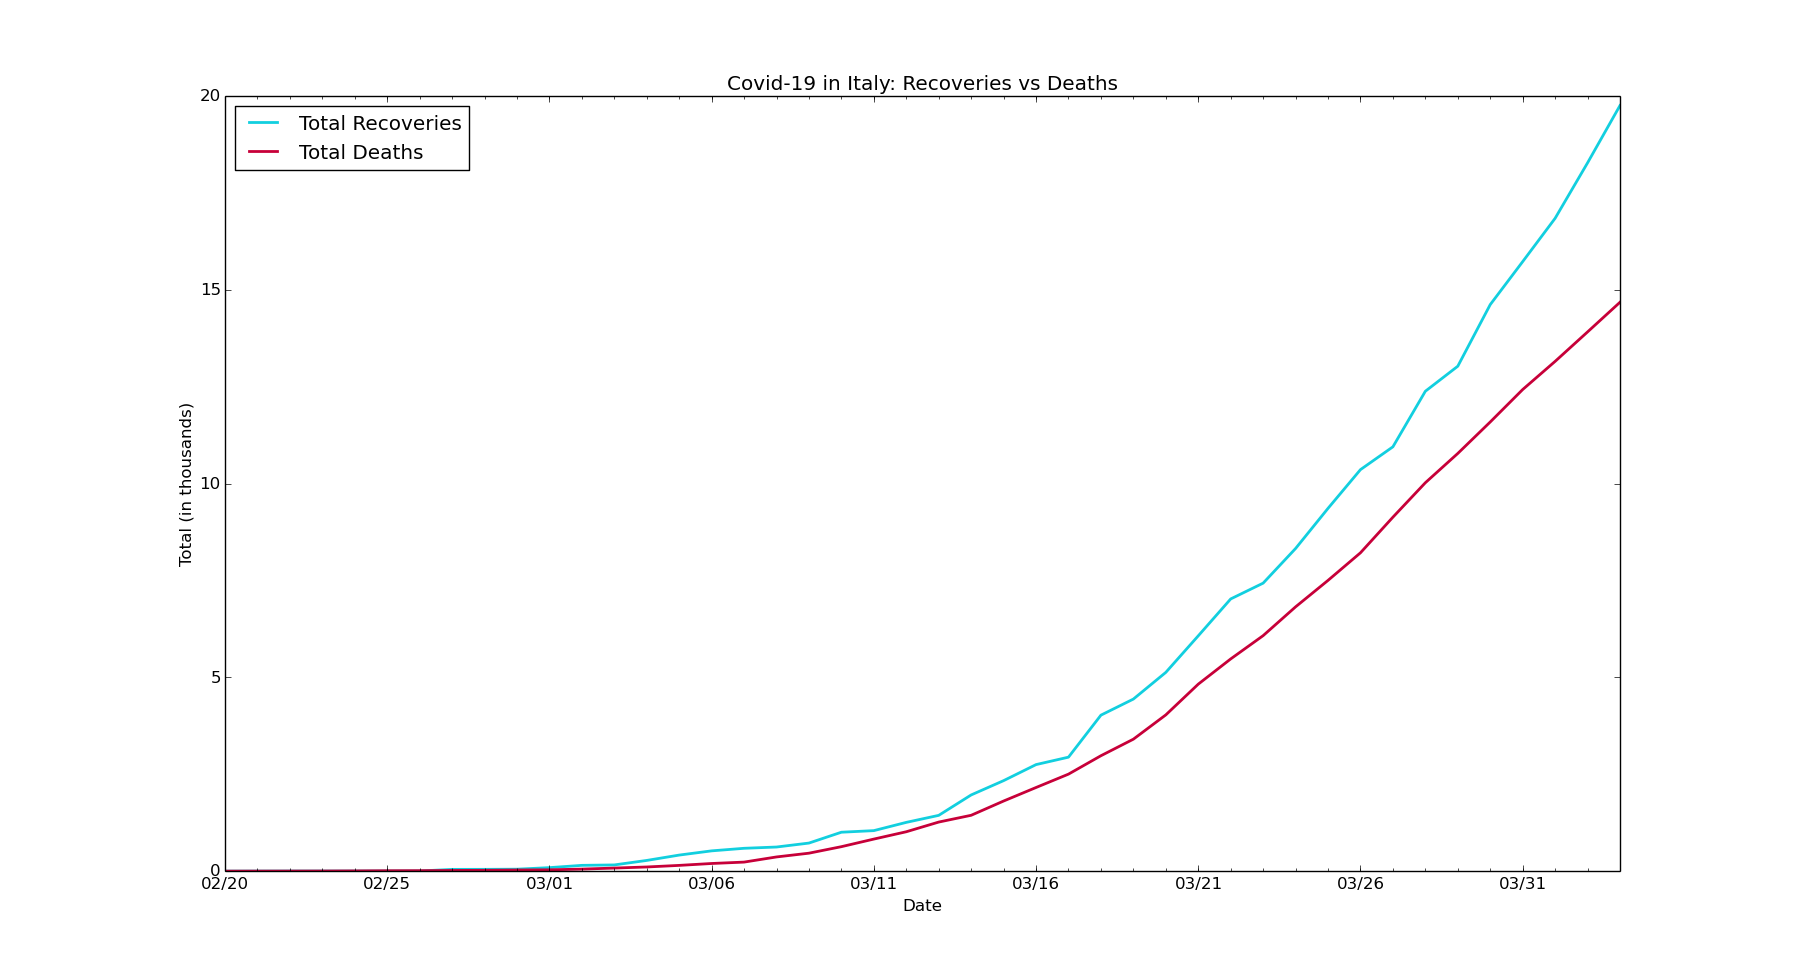
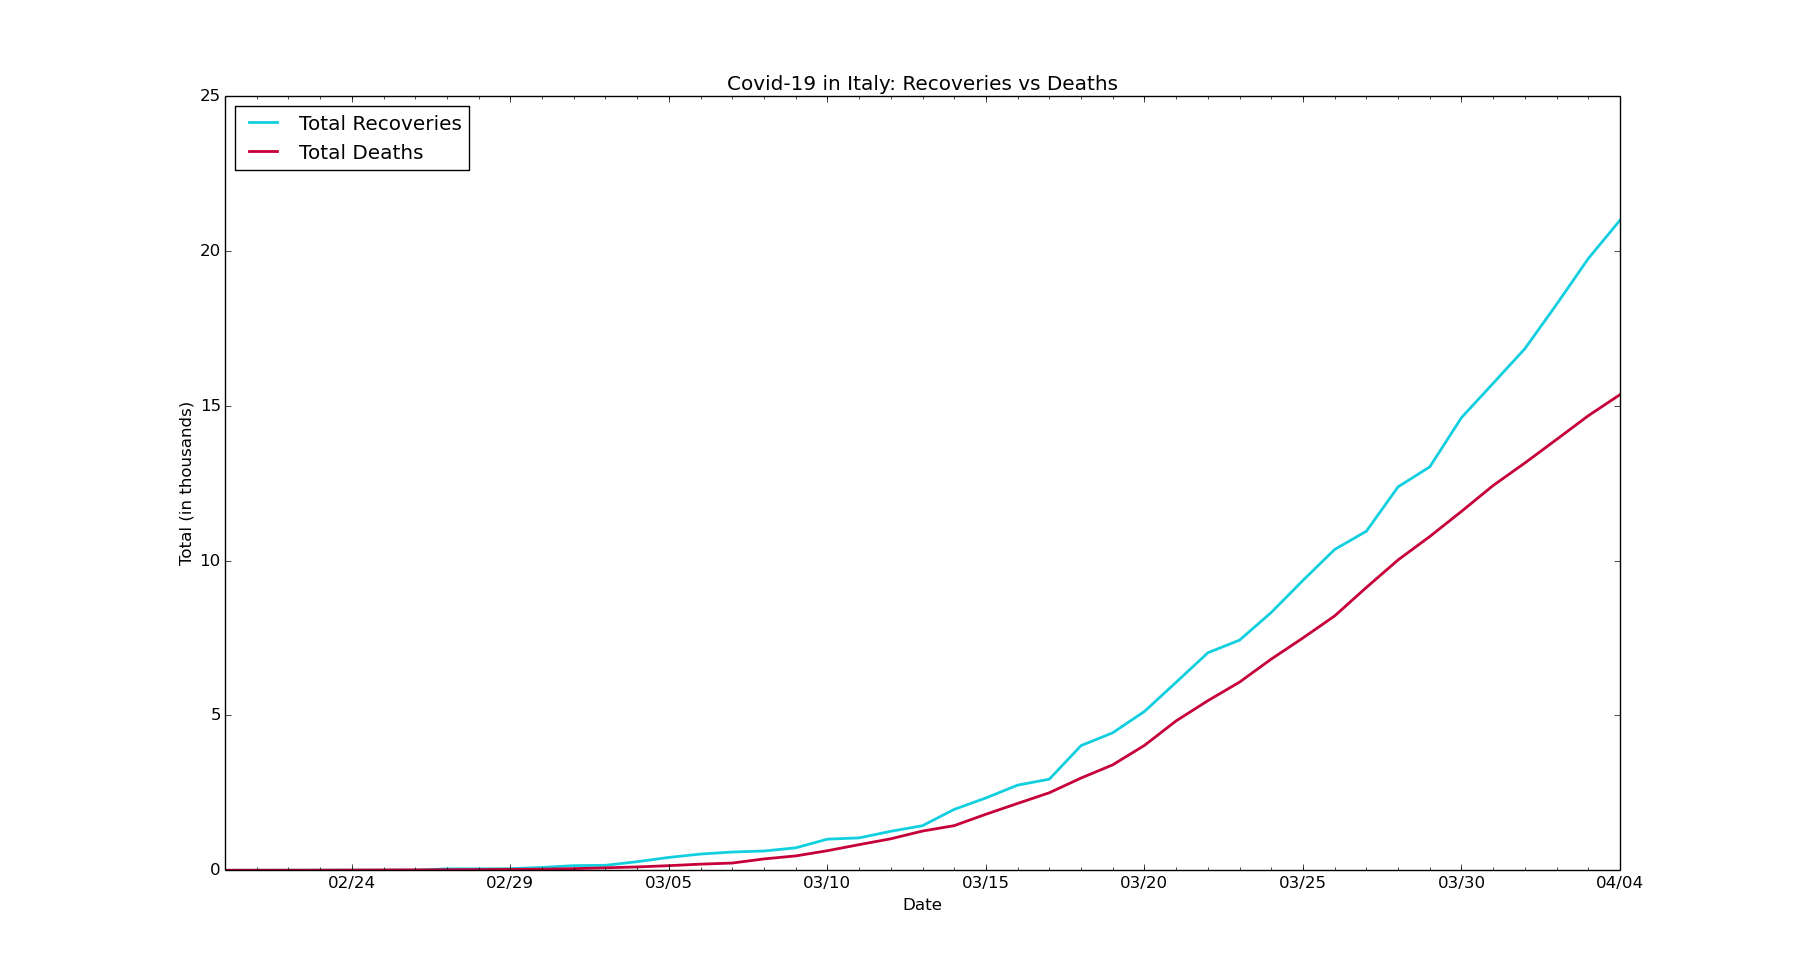
chore: Update data for Italy

diff --git a/italy/it-nc.py b/italy/it-nc.py
@@ -6,7 +6,7 @@ import matplotlib.dates as mdates
 import matplotlib.ticker as ticker
 from matplotlib.dates import MO, TU, WE, TH, FR, SA, SU
 
-dates = ['1/31/2020', '2/1/2020', '2/2/2020', '2/3/2020', '2/4/2020', '2/5/2020', '2/6/2020', '2/7/2020', '2/8/2020', '2/9/2020', '2/10/2020', '2/11/2020', '2/12/2020', '2/13/2020', '2/14/2020', '2/15/2020', '2/16/2020', '2/17/2020', '2/18/2020', '2/19/2020', '2/20/2020', '2/21/2020', '2/22/2020', '2/23/2020', '2/24/2020', '2/25/2020', '2/26/2020', '2/27/2020', '2/28/2020', '2/29/2020', '3/1/2020', '3/2/2020', '3/3/2020', '3/4/2020', '3/5/2020', '3/6/2020', '3/7/2020', '3/8/2020', '3/9/2020', '3/10/2020', '3/11/2020', '3/12/2020', '3/13/2020', '3/14/2020', '3/15/2020', '3/16/2020', '3/17/2020', '3/18/2020', '3/19/2020', '3/20/2020', '3/21/2020', '3/22/2020', '3/23/2020', '3/24/2020', '3/25/2020', '3/26/2020', '3/27/2020', '3/28/2020', '3/29/2020', '3/30/2020', '3/31/2020', '4/1/2020', '4/2/2020', '4/3/2020']
+dates = ['1/31/2020', '2/1/2020', '2/2/2020', '2/3/2020', '2/4/2020', '2/5/2020', '2/6/2020', '2/7/2020', '2/8/2020', '2/9/2020', '2/10/2020', '2/11/2020', '2/12/2020', '2/13/2020', '2/14/2020', '2/15/2020', '2/16/2020', '2/17/2020', '2/18/2020', '2/19/2020', '2/20/2020', '2/21/2020', '2/22/2020', '2/23/2020', '2/24/2020', '2/25/2020', '2/26/2020', '2/27/2020', '2/28/2020', '2/29/2020', '3/1/2020', '3/2/2020', '3/3/2020', '3/4/2020', '3/5/2020', '3/6/2020', '3/7/2020', '3/8/2020', '3/9/2020', '3/10/2020', '3/11/2020', '3/12/2020', '3/13/2020', '3/14/2020', '3/15/2020', '3/16/2020', '3/17/2020', '3/18/2020', '3/19/2020', '3/20/2020', '3/21/2020', '3/22/2020', '3/23/2020', '3/24/2020', '3/25/2020', '3/26/2020', '3/27/2020', '3/28/2020', '3/29/2020', '3/30/2020', '3/31/2020', '4/1/2020', '4/2/2020', '4/3/2020', '4/4/2020']
 
 # format dates
 x_values = [dt.datetime.strptime(d, "%m/%d/%Y").date() for d in dates]
@@ -31,7 +31,7 @@ plt.axvline(dt.datetime(2020, 3, 21), color='#0b28f7', linewidth=2, label='nones
 ax.get_yaxis().set_major_formatter(ticker.FuncFormatter(lambda x, pos: format(int(x/1000), ',')))
 
 # new cases by day
-new_cases = [2, 0, 0, 0, 0, 0, 1, 0, 0, 0, 0, 0, 0, 0, 0, 0, 0, 0, 0, 0, 0, 17, 58, 78, 72, 94, 147, 185, 234, 239, 573, 335, 466, 587, 769, 778, 1247, 1492, 1797, 977, 2313, 2651, 2547, 3497, 3590, 3233, 3526, 4207, 5322, 5986, 6557, 5560, 4789, 5249, 5210, 6203, 5909, 5974, 5217, 4050, 4053, 4782, 4668, 4585]
+new_cases = [2, 0, 0, 0, 0, 0, 1, 0, 0, 0, 0, 0, 0, 0, 0, 0, 0, 0, 0, 0, 0, 17, 58, 78, 72, 94, 147, 185, 234, 239, 573, 335, 466, 587, 769, 778, 1247, 1492, 1797, 977, 2313, 2651, 2547, 3497, 3590, 3233, 3526, 4207, 5322, 5986, 6557, 5560, 4789, 5249, 5210, 6203, 5909, 5974, 5217, 4050, 4053, 4782, 4668, 4585, 4805]
 
 # text labels
 plt.title('Covid-19 in Italy: New Confirmed Diagnoses')

diff --git a/italy/it-rvd.py b/italy/it-rvd.py
@@ -6,7 +6,7 @@ import matplotlib.dates as mdates
 import matplotlib.ticker as ticker
 from matplotlib.dates import MO, TU, WE, TH, FR, SA, SU
 
-dates = ['2/20/2020', '2/21/2020', '2/22/2020', '2/23/2020', '2/24/2020', '2/25/2020', '2/26/2020', '2/27/2020', '2/28/2020', '2/29/2020', '3/1/2020', '3/2/2020', '3/3/2020', '3/4/2020', '3/5/2020', '3/6/2020', '3/7/2020', '3/8/2020', '3/9/2020', '3/10/2020', '3/11/2020', '3/12/2020', '3/13/2020', '3/14/2020', '3/15/2020', '3/16/2020', '3/17/2020', '3/18/2020', '3/19/2020', '3/20/2020', '3/21/2020', '3/22/2020', '3/23/2020', '3/24/2020', '3/25/2020', '3/26/2020', '3/27/2020', '3/28/2020', '3/29/2020', '3/30/2020', '3/31/2020', '4/1/2020', '4/2/2020', '4/3/2020']
+dates = ['2/20/2020', '2/21/2020', '2/22/2020', '2/23/2020', '2/24/2020', '2/25/2020', '2/26/2020', '2/27/2020', '2/28/2020', '2/29/2020', '3/1/2020', '3/2/2020', '3/3/2020', '3/4/2020', '3/5/2020', '3/6/2020', '3/7/2020', '3/8/2020', '3/9/2020', '3/10/2020', '3/11/2020', '3/12/2020', '3/13/2020', '3/14/2020', '3/15/2020', '3/16/2020', '3/17/2020', '3/18/2020', '3/19/2020', '3/20/2020', '3/21/2020', '3/22/2020', '3/23/2020', '3/24/2020', '3/25/2020', '3/26/2020', '3/27/2020', '3/28/2020', '3/29/2020', '3/30/2020', '3/31/2020', '4/1/2020', '4/2/2020', '4/3/2020', '4/4/2020']
 
 # format dates
 x_values = [datetime.datetime.strptime(d, "%m/%d/%Y").date() for d in dates]
@@ -24,10 +24,10 @@ ax.xaxis.set_minor_locator(mdates.WeekdayLocator(byweekday=(MO, TU, WE, TH, FR, 
 ax.get_yaxis().set_major_formatter(ticker.FuncFormatter(lambda x, pos: format(int(x/1000), ',')))
 
 # total recoveries
-recoveries = [0, 1, 2, 2, 2, 3, 3, 45, 46, 50, 90, 149, 160, 276, 414, 523, 589, 622, 724, 1004, 1045, 1258, 1439, 1966, 2335, 2749, 2941, 4025, 4440, 5129, 6072, 7024, 7432, 8326, 9362, 10361, 10950, 12384, 13030, 14620, 15729, 16847, 18278, 19758]
+recoveries = [0, 1, 2, 2, 2, 3, 3, 45, 46, 50, 90, 149, 160, 276, 414, 523, 589, 622, 724, 1004, 1045, 1258, 1439, 1966, 2335, 2749, 2941, 4025, 4440, 5129, 6072, 7024, 7432, 8326, 9362, 10361, 10950, 12384, 13030, 14620, 15729, 16847, 18278, 19758, 20996]
 
 # total deaths
-deaths = [0, 1, 2, 3, 6, 10, 12, 17, 21, 29, 34, 52, 79, 107, 148, 197, 233, 366, 463, 631, 827, 1016, 1266, 1441, 1809, 2158, 2503, 2978, 3405, 4032, 4825, 5476, 6077, 6820, 7503, 8215, 9134, 10023, 10779, 11591, 12428, 13155, 13915, 14681]
+deaths = [0, 1, 2, 3, 6, 10, 12, 17, 21, 29, 34, 52, 79, 107, 148, 197, 233, 366, 463, 631, 827, 1016, 1266, 1441, 1809, 2158, 2503, 2978, 3405, 4032, 4825, 5476, 6077, 6820, 7503, 8215, 9134, 10023, 10779, 11591, 12428, 13155, 13915, 14681, 15362]
 
 # create the graph
 plt.plot(x_values, recoveries, color='#12cfdf', linewidth=2)
